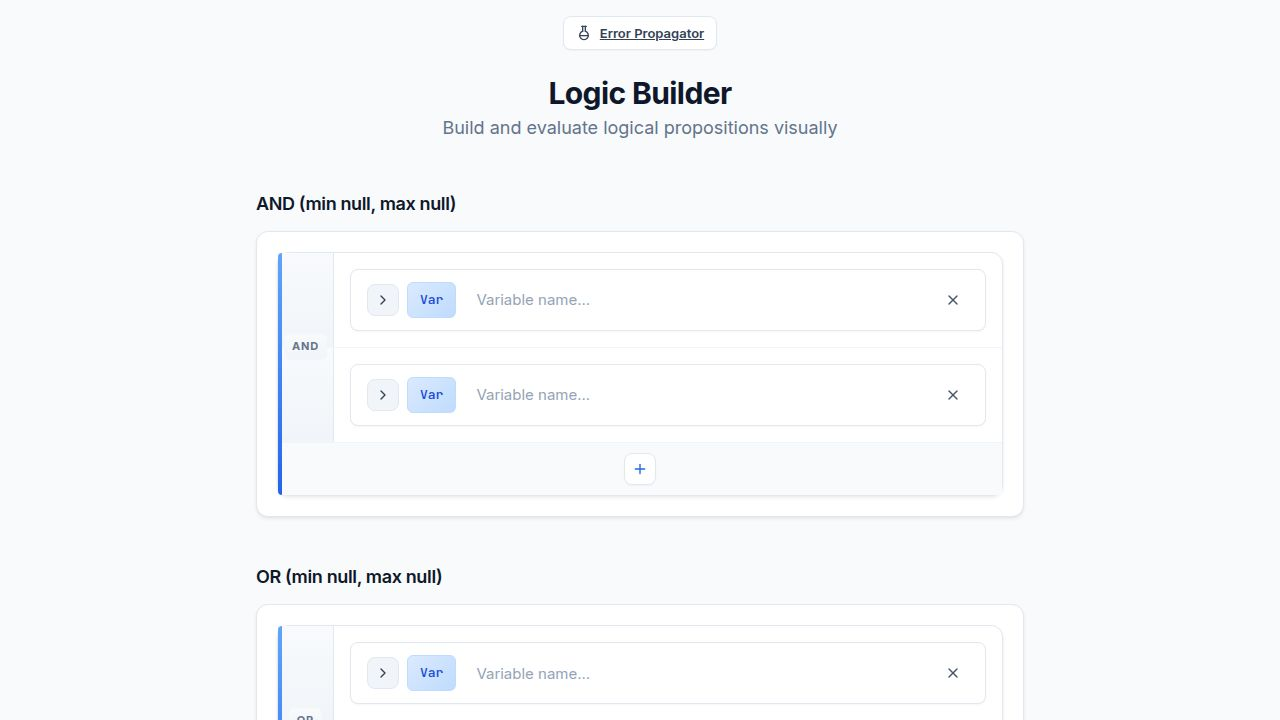
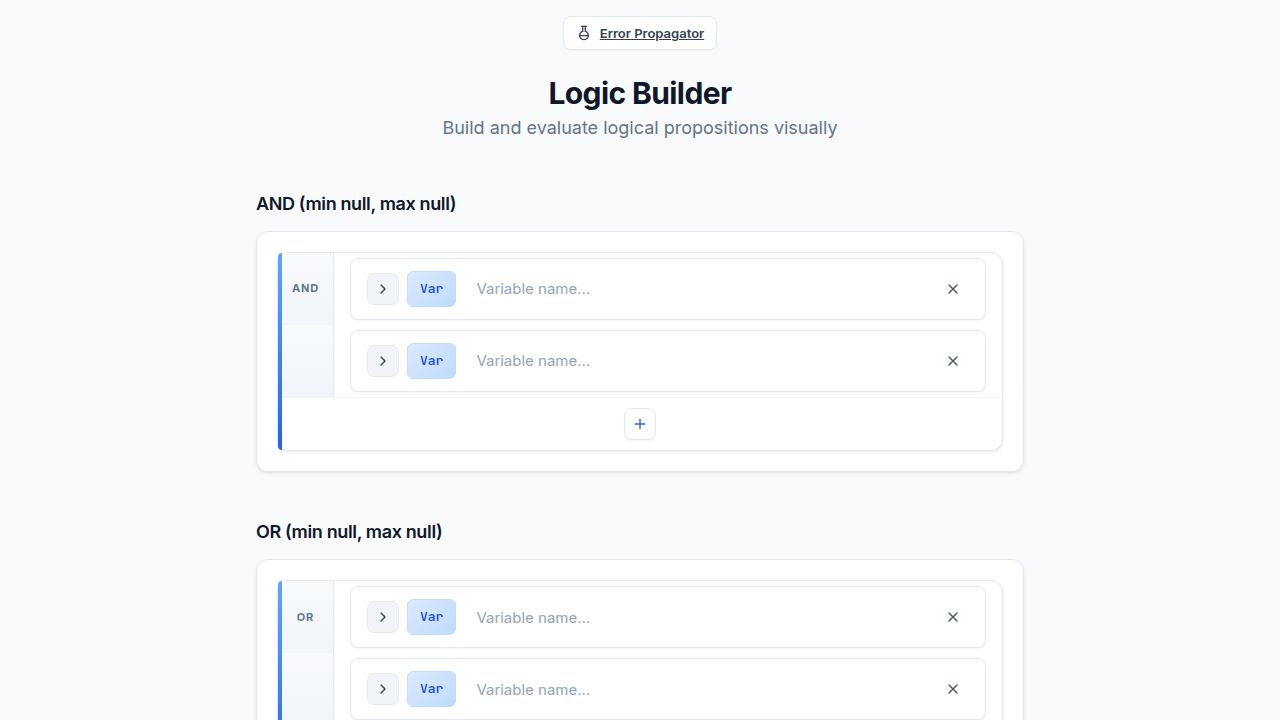
Set default number of inputs for AND and OR operators to two
Update OPERATOR_CONFIG in `logic-builder.js` to set `min` property to 2 for AND and OR operators, ensuring they default to two inputs upon creation.

Replit-Commit-Author: Agent
Replit-Commit-Session-Id: f7923a3d-83ac-4897-892d-3df5e2c8ae99
Replit-Commit-Checkpoint-Type: full_checkpoint
Replit-Commit-Event-Id: d18e94eb-3fa7-46ec-8372-c3e5dc03907c
Replit-Commit-Screenshot-Url: https://storage.googleapis.com/screenshot-production-us-central1/663ff4e8-5830-4441-89b9-e1d6236cf37d/f7923a3d-83ac-4897-892d-3df5e2c8ae99/Yfm62eH
Replit-Helium-Checkpoint-Created: true

diff --git a/client/src/logic-builder.js b/client/src/logic-builder.js
@@ -7,8 +7,8 @@ const OPERATOR_CONFIG = {
   'TEXT': { label: 'Text' },
   'MULTILINE': { label: 'Multiline Text' },
   'BOOLEAN': { label: 'Boolean' },
-  'AND': { label: 'AND', min: 0, max: null },
-  'OR': { label: 'OR', min: 0, max: null },
+  'AND': { label: 'AND', min: 2, max: null },
+  'OR': { label: 'OR', min: 2, max: null },
   'XOR': { label: 'XOR', min: 2, max: 2 },
   'IMP': { label: '=>', min: 2, max: 2 },
   'BIC': { label: '<=>', min: 2, max: 2 },
